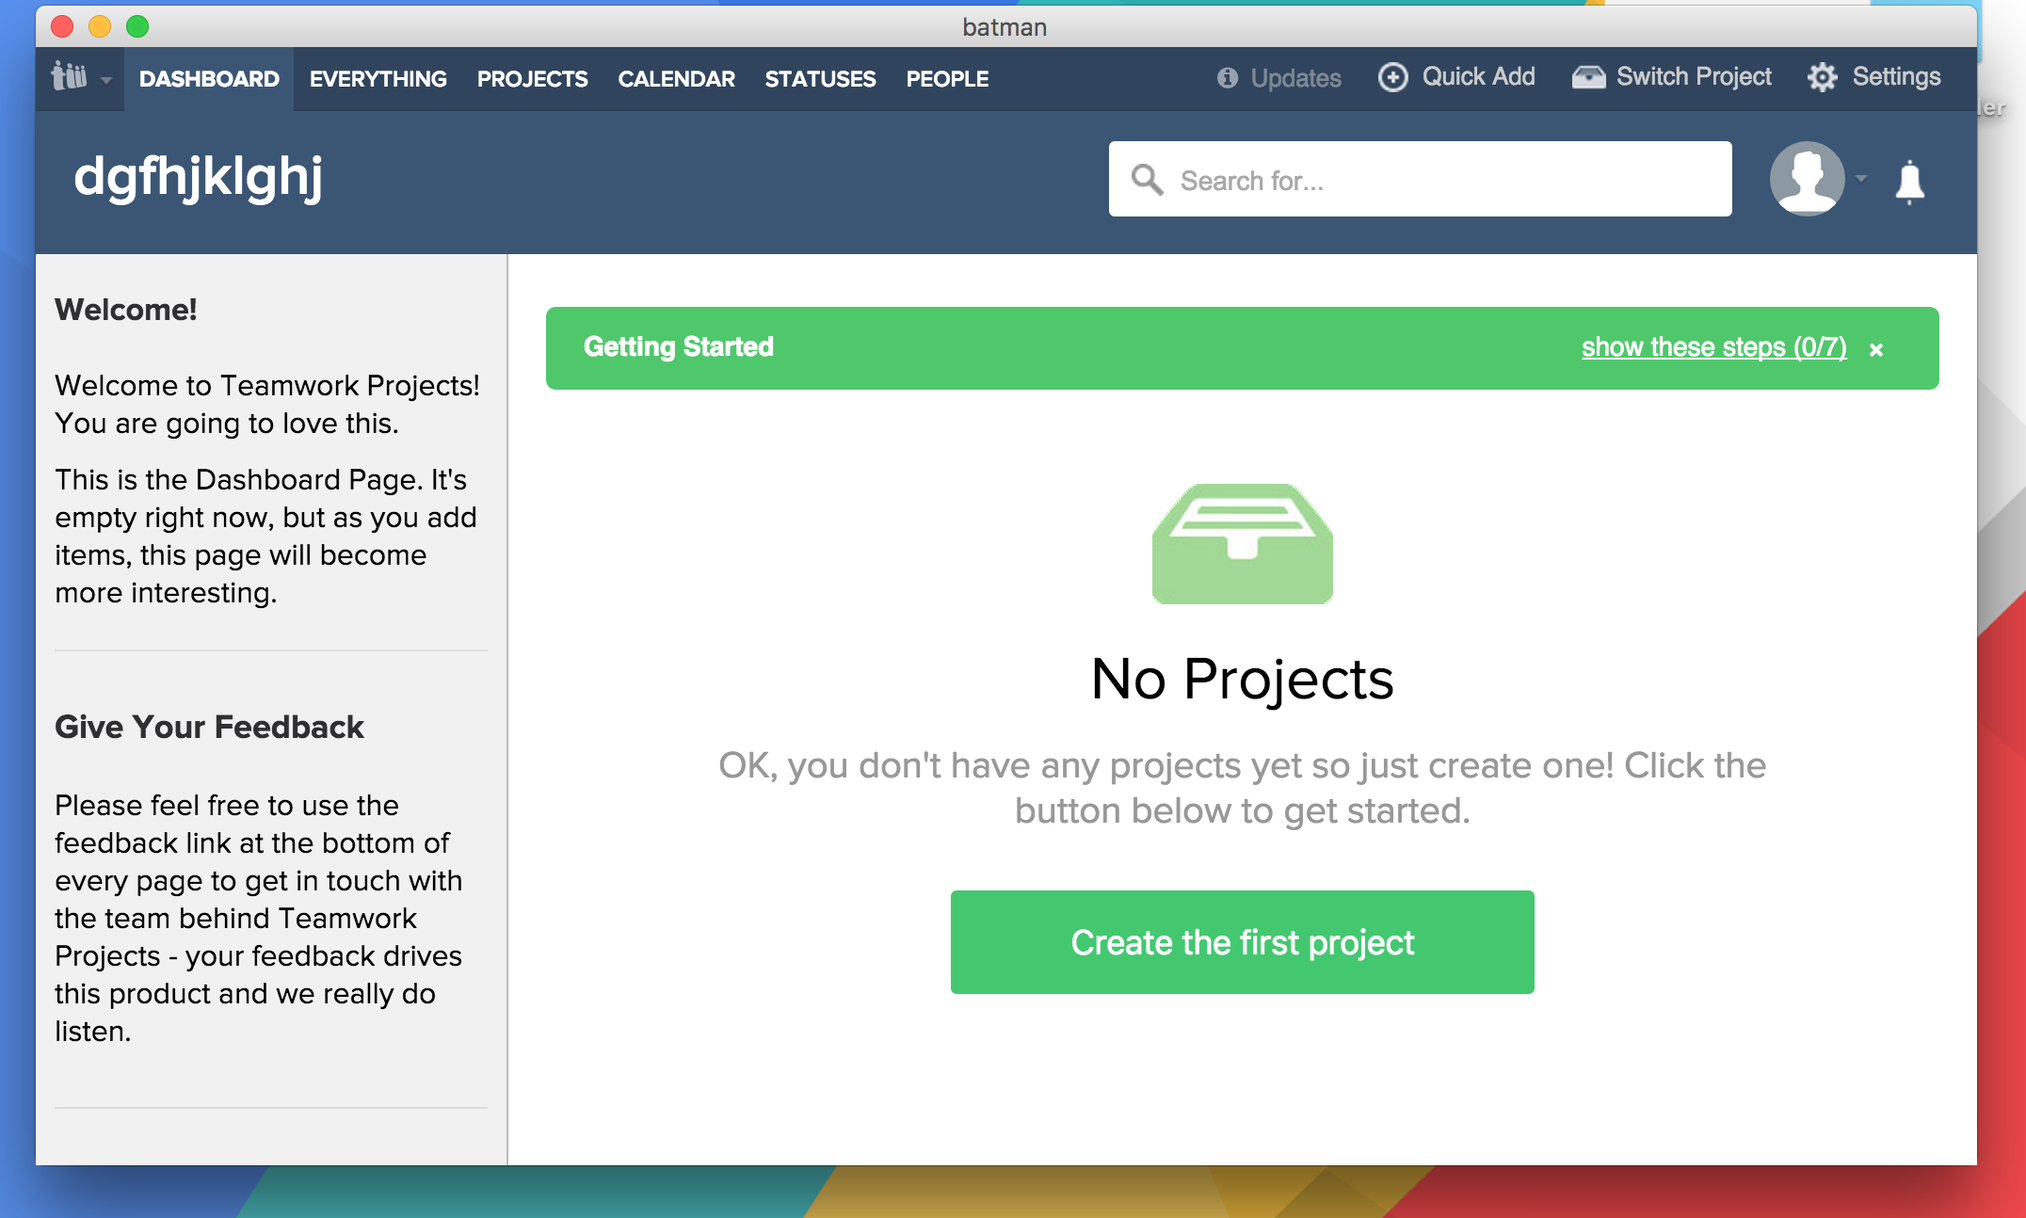
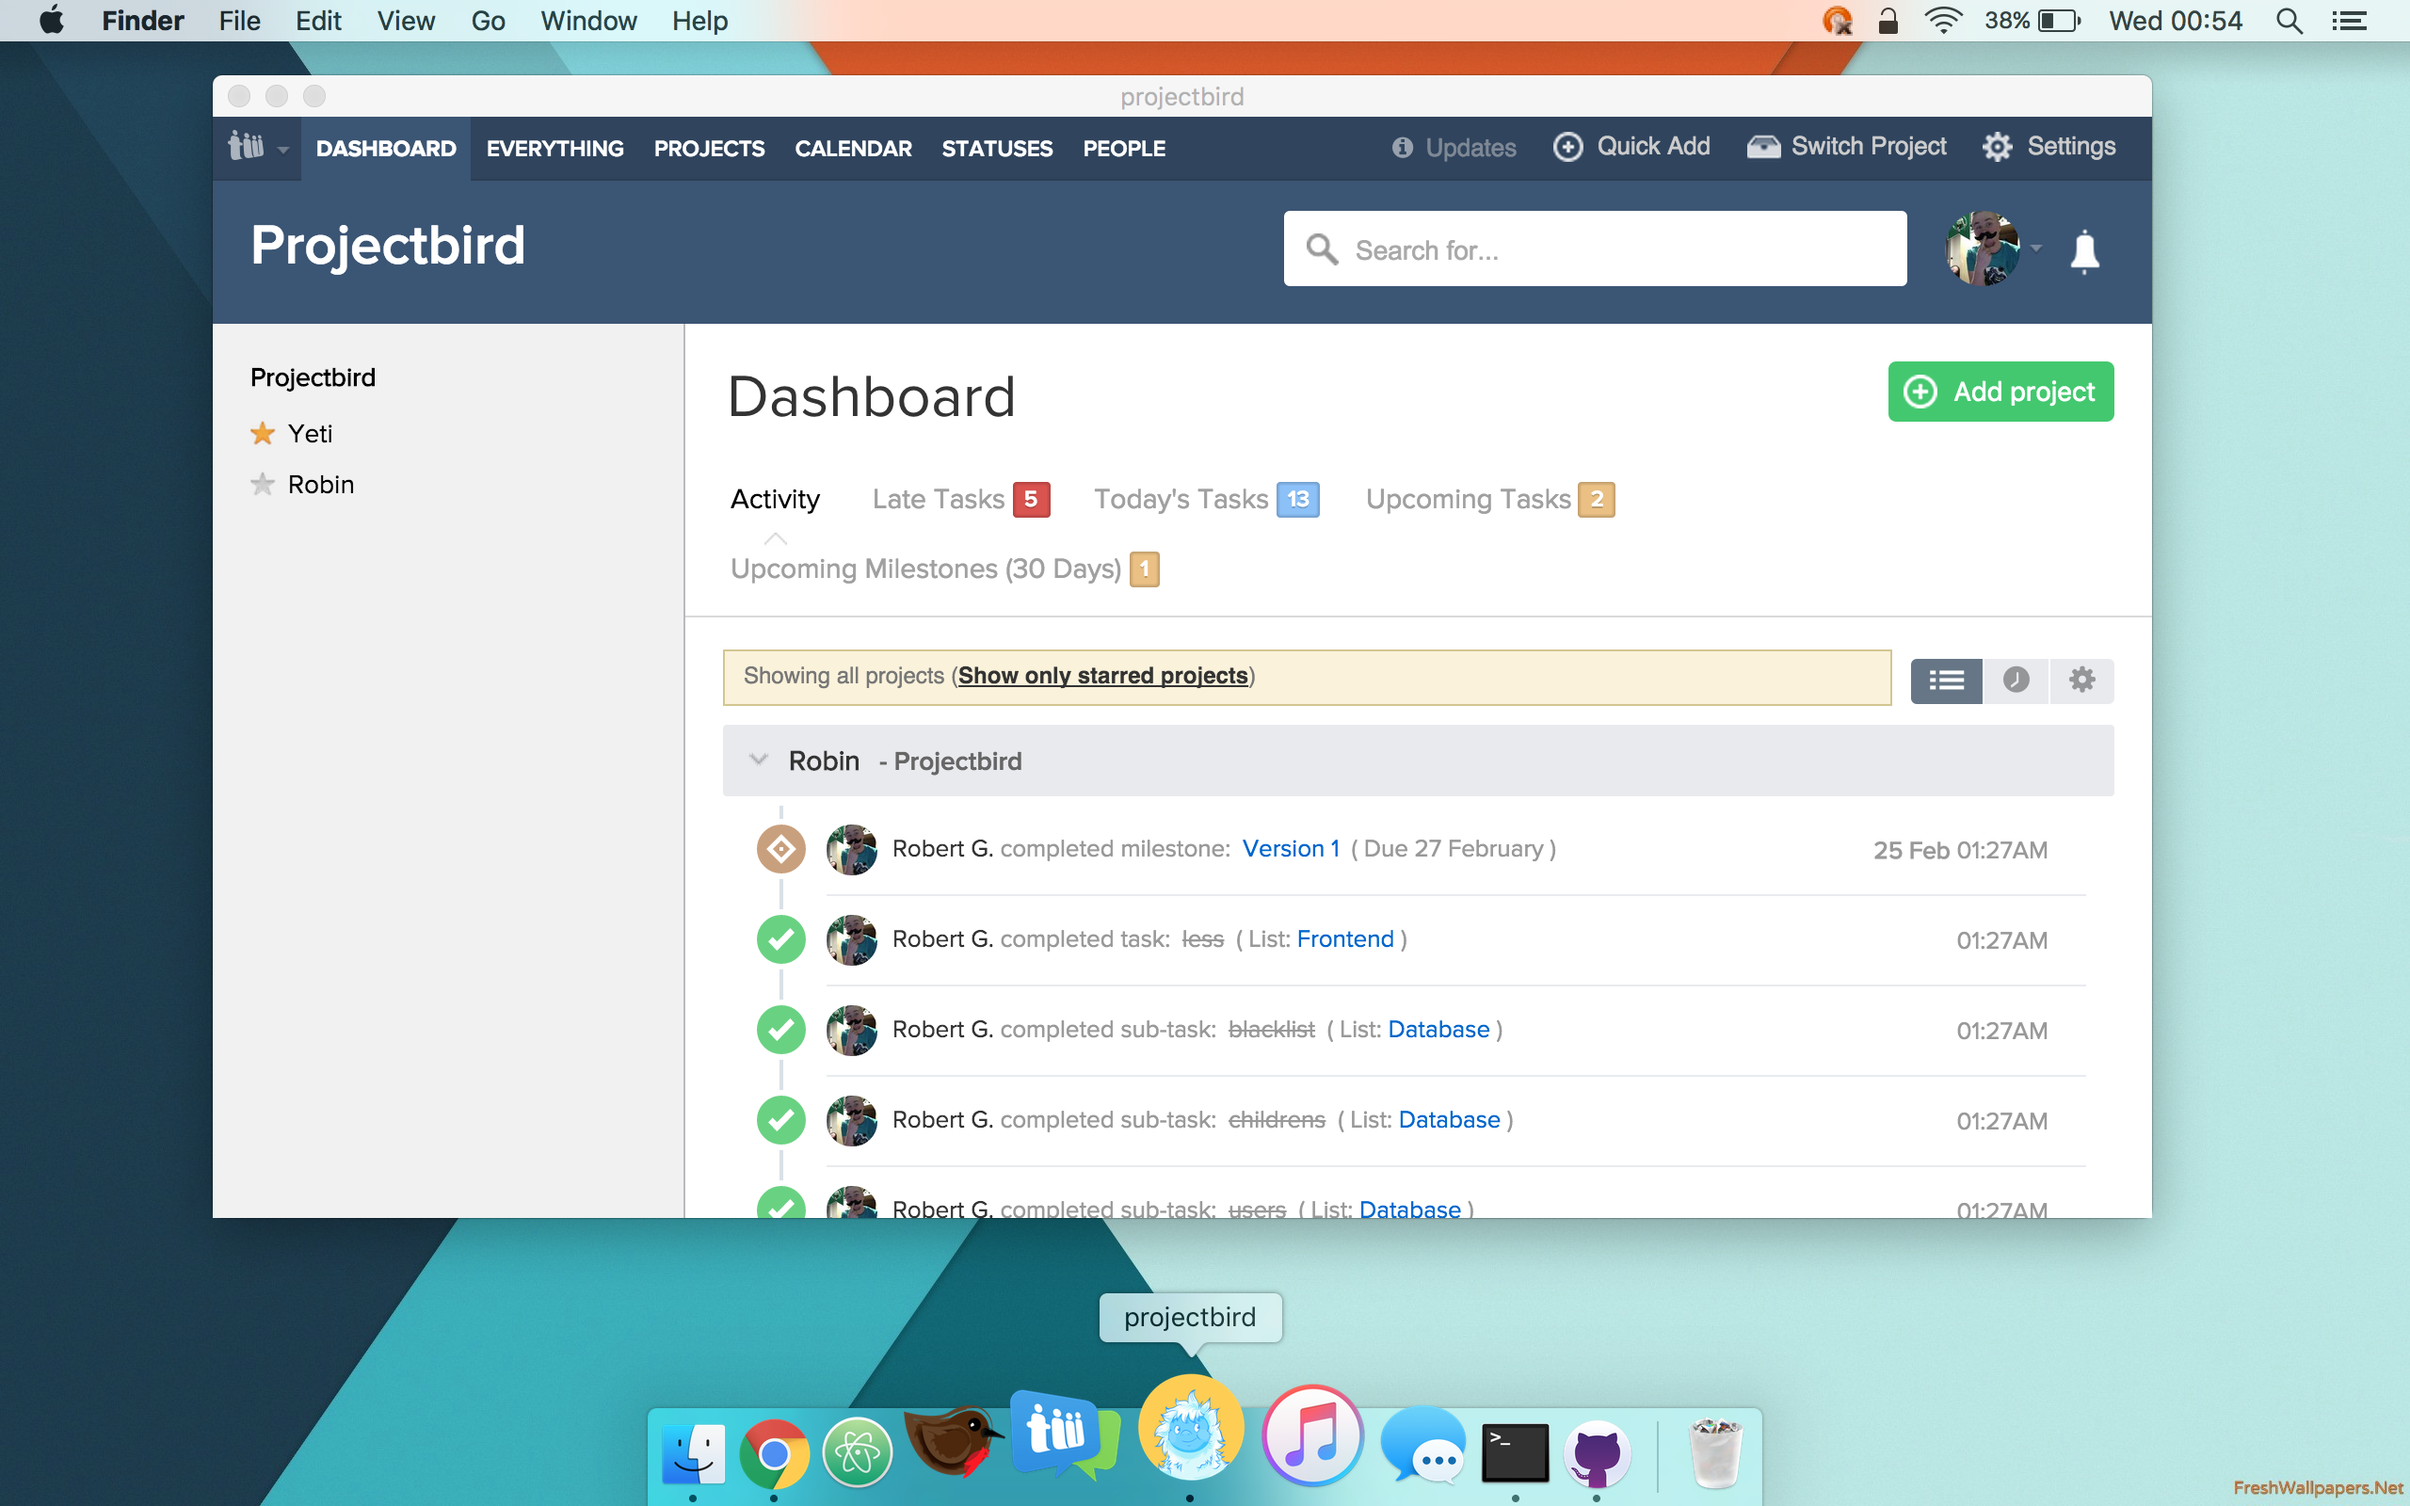
Updated example

diff --git a/temp/index.html b/temp/index.html
@@ -1,1 +1,1 @@
-<!DOCTYPE html><html lang="en"><head style="border:0px;margin:0px;"><title>test</title><script>var gui=require("nw.gui"),menu=new gui.Menu({type:"menubar"}),menuItems=new gui.Menu;menu.createMacBuiltin("test",{hideEdit:!1,hideWindow:!0}),gui.Window.get().menu=menu;</script></head><body style="border:0px;margin:0px;"><iframe src="http://www.google.ie" style="border:0;width:100vw; height:100vw;padding:0;"></iframe></body></html>
+<!DOCTYPE html><html lang="en"><head style="border:0px;margin:0px;"><title>projectbird</title><script>var gui=require("nw.gui"),menu=new gui.Menu({type:"menubar"}),menuItems=new gui.Menu;menu.createMacBuiltin("projectbird",{hideEdit:!1,hideWindow:!0}),gui.Window.get().menu=menu;</script></head><body style="border:0px;margin:0px;"><iframe src="http://projectbird.teamwork.com" style="border:0;width:100vw; height:100vw;padding:0;"></iframe></body></html>
